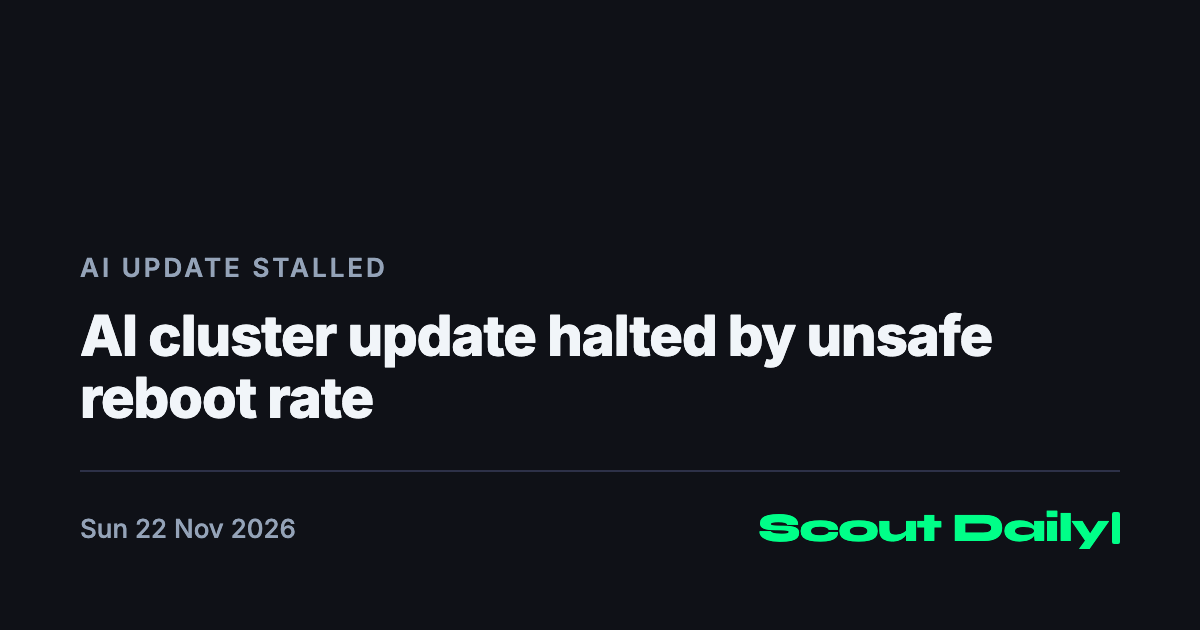
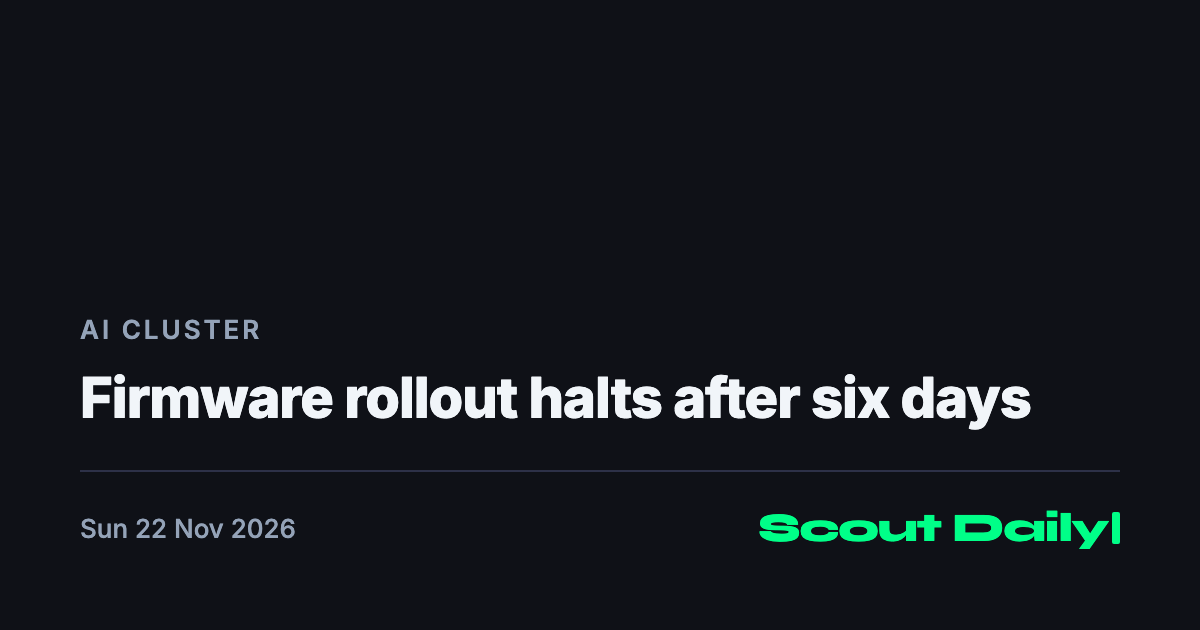
fix(email-header): address the 7 review findings
- cut() drops a dangling last word ("...for $7.5B as" -> "...for $7.5B")
- '#' in slot text is &num;, so a headline like "#100" does not fail colour_gate
- lines_gate reports an unreadable (None/NaN) line count instead of a TypeError or a silent pass
- main() logs why a custom sender gets no header
- docstring: the one Groq call, also made by --dry-run
- workflow reads the groq/playwright pins from requirements.txt
- samples re-rendered

Changed region(s): [[0.0617, 0.4825, 0.8633, 0.6937], [0.0617, 0.3921, 0.3392, 0.4524]]

diff --git a/tests/test_header.py b/tests/test_header.py
@@ -39,6 +39,7 @@ def test_cut_stops_at_a_word_boundary():
     assert rh.cut("Missed billing costs two hundred thousand", 20) == "Missed billing costs"
     assert rh.cut("a" * 30, 10) == "a" * 10
     assert rh.cut("short", 60) == "short"
+    assert rh.cut("Amazon buys Decart's tech for $7.5B as it sells chips", 40) == "Amazon buys Decart's tech for $7.5B"
 
 
 def test_words_uses_groq_json():
@@ -69,11 +70,14 @@ def test_title_gate():
 def test_lines_gate():
     assert gates.lines_gate(GOOD) == []
     assert gates.lines_gate([{**GOOD[1], "lines": 3}]) == ["title wraps to 3 lines (max 2)"]
+    assert gates.lines_gate([{**GOOD[1], "lines": None}]) == ["title line count unreadable (None)"]
+    assert gates.lines_gate([{**GOOD[1], "lines": float("nan")}]) == ["title line count unreadable (nan)"]
 
 
 def test_colour_gate_passes_the_filled_template_and_fails_off_brand():
     page = rh.fill("Email", "A title", "Tue 24 Nov 2026")
     assert gates.colour_gate(page) == []
+    assert gates.colour_gate(rh.fill("Lists", "The top #100 AI tools", "d")) == []  # a '#' in the text is not a colour
     assert gates.colour_gate(page.replace("#00ff88", "#ff0000")) == ["non-brand colour #ff0000"]
     assert gates.colour_gate(page + "<p style='color:rgb(1,2,3)'>")
 
@@ -161,3 +165,10 @@ def test_main_sends_with_or_without_the_header(monkeypatch, tmp_path, header_png
     html_body, kw = sent[0]
     assert html_body.count("cid:") == (1 if header_png else 0)
     assert kw == ({"header_png": header_png} if header_png else {})
+
+
+def test_main_logs_why_a_custom_sender_gets_no_header(monkeypatch, tmp_path, capsys):
+    monkeypatch.setattr(de, "LAST_SENT", str(tmp_path / "last_sent.txt"))
+    monkeypatch.setattr(de, "load_data", lambda: DATA)
+    assert de.main(["--force"], now=NOW, sleep=lambda s: None, send=lambda *a, **kw: "ok") == "sent"
+    assert "[HEADER] No header: custom sender" in capsys.readouterr().out

diff --git a/header/render_header.py b/header/render_header.py
@@ -18,6 +18,8 @@ TEMPLATE = HERE / "template.html"
 MODEL = "openai/gpt-oss-20b"  # the Groq model Scout Daily uses (industry_news_scout_langgraph.py groq_complete)
 LOGO = 'Scout Daily<span class="cursor"></span>'  # the site wordmark; the repo has no logo file
 KICKER_MAX = 24
+_DANGLING = {"a", "an", "and", "as", "at", "but", "by", "for", "from", "her", "his", "in", "into", "its", "of", "on",
+             "or", "our", "than", "that", "the", "their", "this", "to", "with", "your"}
 
 # Reads every [data-slot]: computed colour, the first opaque background behind it, and its rendered line count.
 _MEASURE = """() => [...document.querySelectorAll('[data-slot]')].map(el => {
@@ -35,7 +37,10 @@ def cut(text, limit):
     if len(text) <= limit:
         return text
     head = text[:limit + 1].rsplit(" ", 1)[0]
-    return (head if len(head) <= limit else text[:limit]).rstrip(" ,;:-–—")
+    words_ = (head if len(head) <= limit else text[:limit]).rstrip(" ,;:-–—").split(" ")
+    while len(words_) > 1 and words_[-1].lower() in _DANGLING:  # "...for $7.5B as" -> "...for $7.5B"
+        words_.pop()
+    return " ".join(words_).rstrip(" ,;:-–—")
 
 
 def _fallback(top):
@@ -75,7 +80,8 @@ def words(top, complete=groq_json):
 def fill(kicker, title, date):
     page = TEMPLATE.read_text(encoding="utf-8")
     for slot, value in (("kicker", kicker), ("title", title), ("date", date)):
-        page = page.replace("{{" + slot + "}}", html.escape(value))
+        # &num; so a "#" plus digits in a headline is text, not a colour, to colour_gate.
+        page = page.replace("{{" + slot + "}}", html.escape(value).replace("#", "&num;"))
     return page.replace("{{logo}}", LOGO)
 
 

diff --git a/send_daily_email.py b/send_daily_email.py
@@ -1,5 +1,6 @@
 #!/usr/bin/env python3
-"""Scout Daily email: Mon-Fri at 11:00 London, built from committed Scout data. No LLM calls.
+"""Scout Daily email: Mon-Fri at 11:00 London, built from committed Scout data.
+The only LLM call is one Groq call for the header image words (header/); --dry-run makes it too.
 
 Usage: python send_daily_email.py [--dry-run] [--force]
 """
@@ -495,7 +496,8 @@ def smtp_send(subject, html_body, text_body, *, smtp_factory=smtplib.SMTP_SSL, h
 
 def main(argv=None, now=None, sleep=time.sleep, send=smtp_send, header=None):
     # Tests pass a fake send; they get no header (no Groq, no Chromium) unless they pass one.
-    header = header or (_header_png if send is smtp_send else lambda top, date: None)
+    header = header or (_header_png if send is smtp_send else
+                        lambda top, date: print("[HEADER] No header: custom sender, pass header= to render one."))
     args = argparse.ArgumentParser(description=__doc__)
     args.add_argument("--dry-run", action="store_true", help="write email/preview.html, send nothing")
     args.add_argument("--force", action="store_true", help="ignore the weekday and 11:00 rules (still once per day)")

diff --git a/header/gates.py b/header/gates.py
@@ -64,6 +64,8 @@ def lines_gate(measured):
     if not title:
         return ["title not found in the render"]
     n = title[0]["lines"]
+    if not isinstance(n, (int, float)) or not n >= 1:  # None or NaN when the line height is not a number
+        return [f"title line count unreadable ({n!r})"]
     return [f"title wraps to {n} lines (max {TITLE_LINES})"] if n > TITLE_LINES else []
 
 
